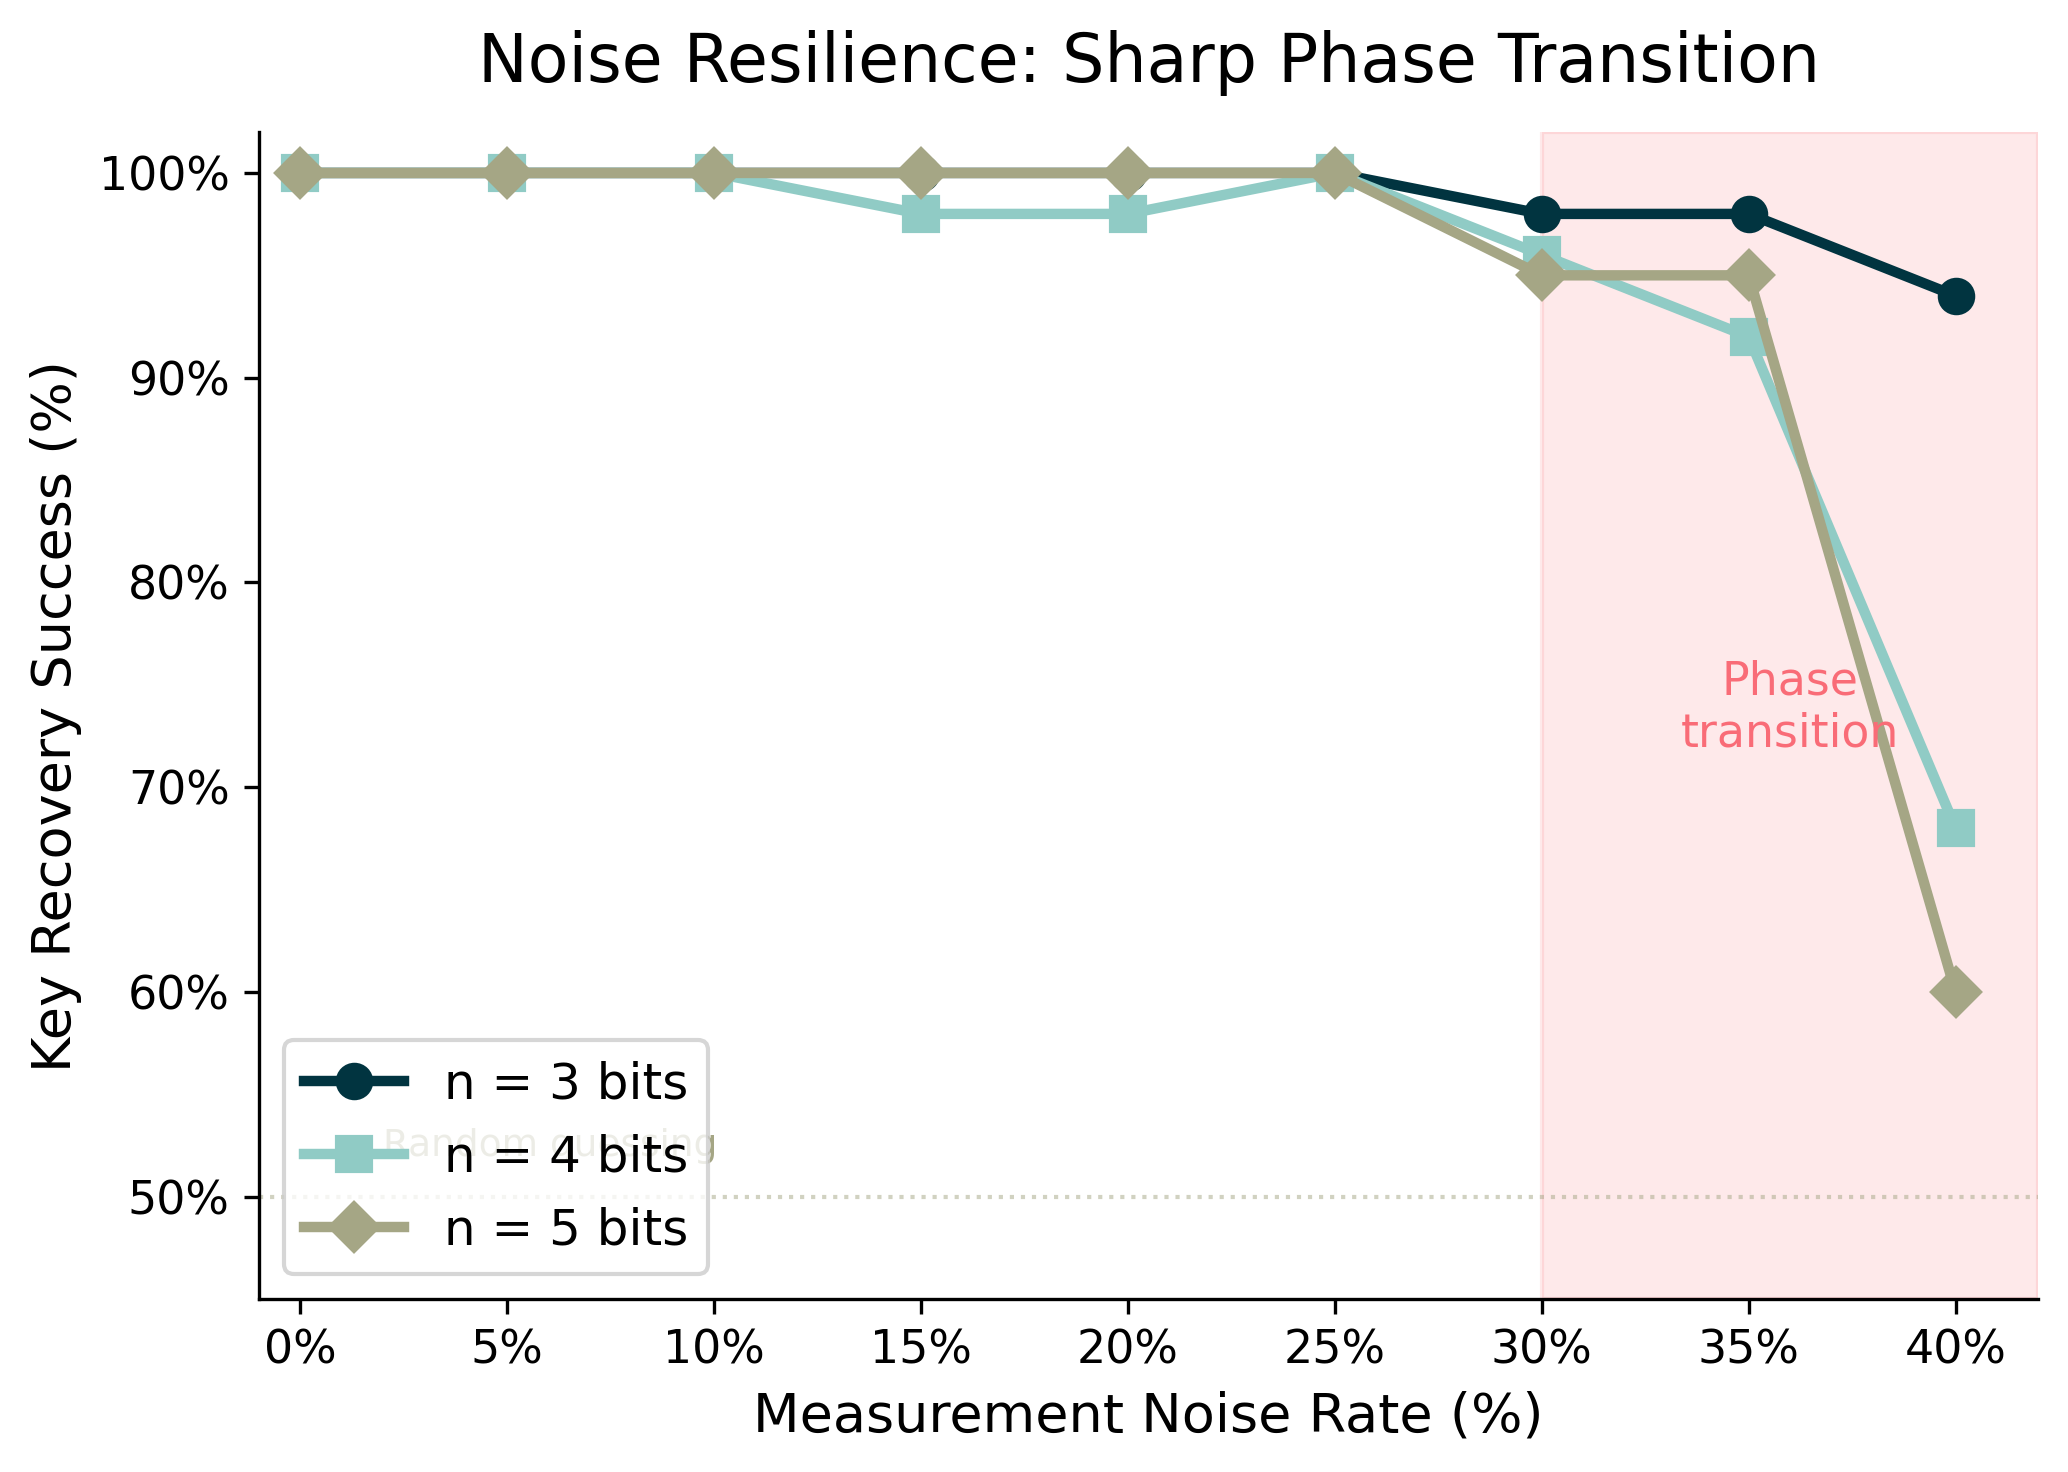
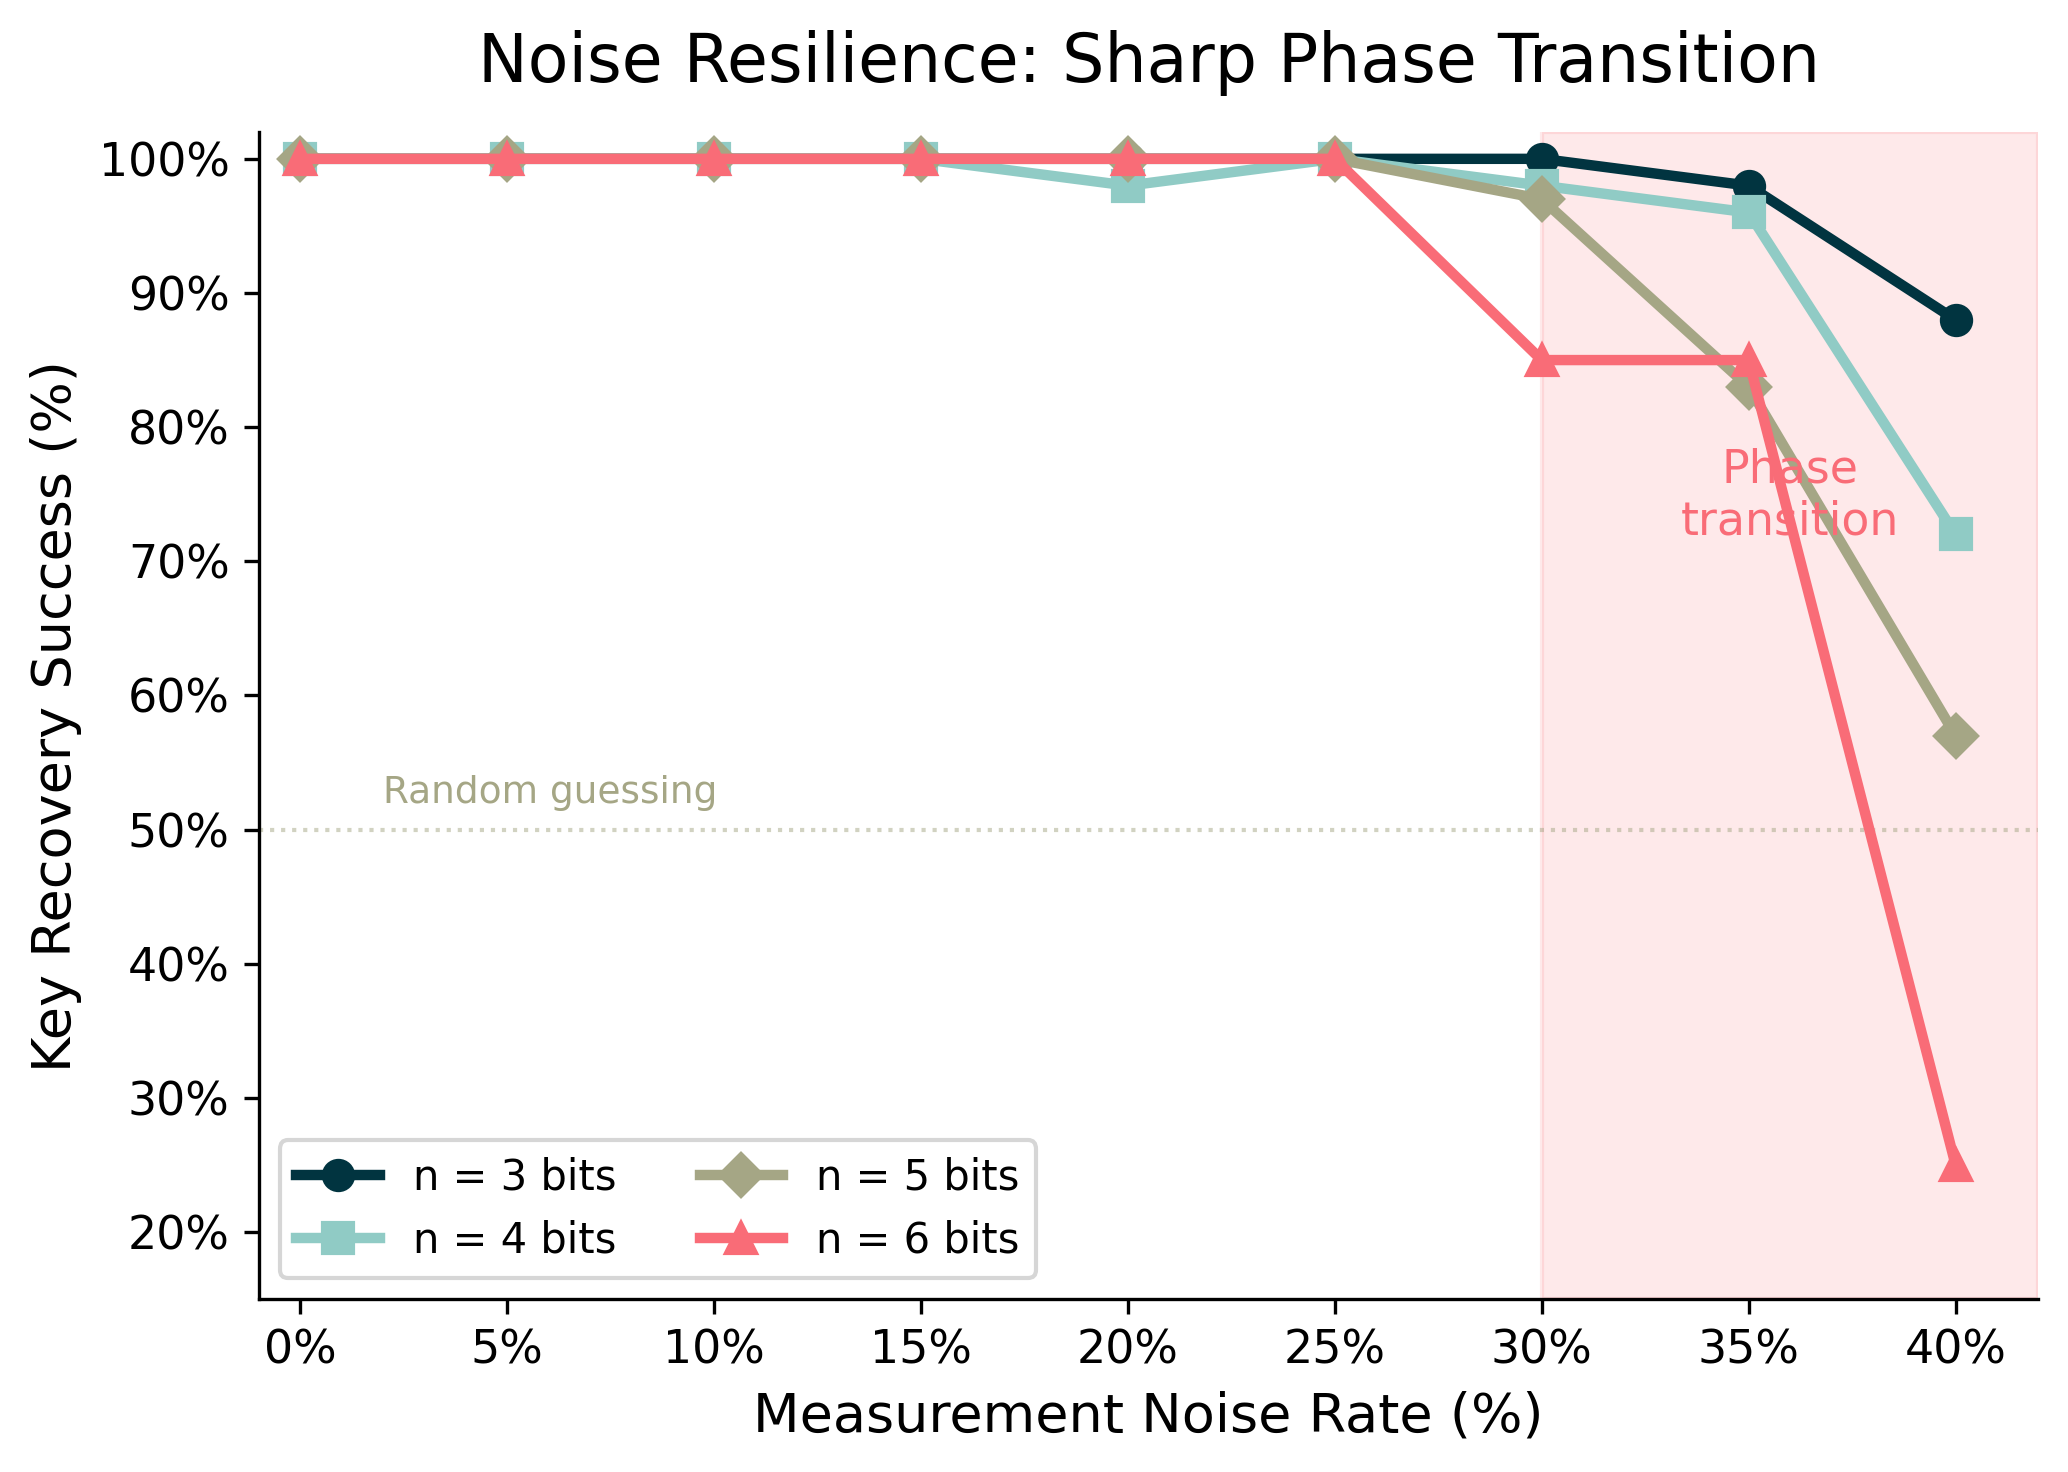
Extend noise phase transition experiment to n=3-6 with capped samples
Cap n_samples at 500 to make larger key sizes feasible while preserving
accurate majority-vote recovery. Regenerate Fig 1 with 4 lines (n=3-6)
showing sharper phase transition at larger n. Adjust y-axis to [15, 102]
to accommodate n=6 at 40% noise (25% success rate).

https://claude.ai/code/session_017jT87xoW9hxJGxP6ZDqaGx

diff --git a/experiments/run_noise_extended.py b/experiments/run_noise_extended.py
@@ -1,0 +1,45 @@
+"""Run noise phase transition experiment for n=3..8."""
+import sys, json, time
+sys.path.insert(0, "/home/user/QtmCryptography")
+
+import numpy as np
+from src.noisy_simon import run_noisy_simons_algorithm
+from src.simons_algorithm import build_oracle_from_secret
+
+configs = [(3, 50), (4, 50), (5, 30), (6, 20), (7, 10), (8, 5)]
+epsilons = [0.0, 0.05, 0.10, 0.15, 0.20, 0.25, 0.30, 0.35, 0.40]
+results = {}
+
+t_total = time.time()
+for n, trials in configs:
+    N = 1 << n
+    results[n] = {}
+    t0 = time.time()
+    print(f"  n={n} ({trials} trials): ", end="", flush=True)
+
+    for eps in epsilons:
+        rng = np.random.default_rng(42)
+        successes = 0
+        for t in range(trials):
+            s_int = rng.integers(1, N)
+            secret = format(s_int, f"0{n}b")
+            oracle = build_oracle_from_secret(secret)
+            n_samples = max(60, min(500, int(10 * n / max(1 - 2 * eps, 0.1) ** 2)))
+            result = run_noisy_simons_algorithm(
+                oracle, n, epsilon=eps,
+                n_samples=n_samples,
+                secret_for_noise=secret,
+                seed=t * 13 + 7,
+            )
+            if result["recovered_s"] == secret:
+                successes += 1
+
+        rate = successes / trials
+        results[n][str(eps)] = rate
+        print(f"{eps:.0%}->{rate:.0%} ", end="", flush=True)
+    print(f" [{time.time()-t0:.1f}s]")
+
+out_path = "/home/user/QtmCryptography/experiments/results/noise_phase_transition.json"
+with open(out_path, "w") as f:
+    json.dump(results, f, indent=2)
+print(f"\nSaved to {out_path}  (total {time.time()-t_total:.1f}s)")

diff --git a/generate_poster_figures.py b/generate_poster_figures.py
@@ -43,13 +43,15 @@ def fig_noise_phase_transition():
 
     fig, ax = plt.subplots(figsize=(7, 5))
 
-    markers = ["o", "s", "D"]
-    colors = [COLORS["navy"], COLORS["teal"], COLORS["sage"]]
+    markers = ["o", "s", "D", "^", "v", "P"]
+    colors = [COLORS["navy"], COLORS["teal"], COLORS["sage"],
+              COLORS["coral"], "#7B68AE", COLORS["dark"]]
     for i, (n, rates) in enumerate(sorted(data.items(), key=lambda x: int(x[0]))):
         eps = [float(e) * 100 for e in sorted(rates.keys(), key=float)]
         success = [rates[e] * 100 for e in sorted(rates.keys(), key=float)]
-        ax.plot(eps, success, marker=markers[i], color=colors[i],
-                linewidth=2.5, markersize=8, label=f"n = {n} bits",
+        ax.plot(eps, success, marker=markers[i % len(markers)],
+                color=colors[i % len(colors)],
+                linewidth=2.5, markersize=7, label=f"n = {n} bits",
                 zorder=3)
 
     ax.axvspan(30, 42, alpha=0.15, color=COLORS["coral"], zorder=0)
@@ -61,9 +63,9 @@ def fig_noise_phase_transition():
 
     style_ax(ax, "Noise Resilience: Sharp Phase Transition",
              "Measurement Noise Rate (%)", "Key Recovery Success (%)")
-    ax.set_ylim(45, 102)
+    ax.set_ylim(15, 102)
     ax.set_xlim(-1, 42)
-    ax.legend(fontsize=12, loc="lower left")
+    ax.legend(fontsize=10, loc="lower left", ncol=2)
     ax.yaxis.set_major_formatter(ticker.FormatStrFormatter('%d%%'))
     ax.xaxis.set_major_formatter(ticker.FormatStrFormatter('%d%%'))
 

diff --git a/experiments/run_all_experiments.py b/experiments/run_all_experiments.py
@@ -191,7 +191,7 @@ def experiment_noise_phase_transition():
     print("EXPERIMENT 3: Noise Phase Transition")
     print("=" * 70)
 
-    configs = [(3, 50), (4, 50), (5, 20)]
+    configs = [(3, 50), (4, 50), (5, 30), (6, 20), (7, 10), (8, 5)]
     epsilons = [0.0, 0.05, 0.10, 0.15, 0.20, 0.25, 0.30, 0.35, 0.40]
     results = {}
 
@@ -207,7 +207,7 @@ def experiment_noise_phase_transition():
                 s_int = rng.integers(1, N)
                 secret = format(s_int, f"0{n}b")
                 oracle = build_oracle_from_secret(secret)
-                n_samples = max(60, int(10 * n / max(1 - 2 * eps, 0.1) ** 2))
+                n_samples = max(60, min(500, int(10 * n / max(1 - 2 * eps, 0.1) ** 2)))
                 result = run_noisy_simons_algorithm(
                     oracle, n, epsilon=eps,
                     n_samples=n_samples,
